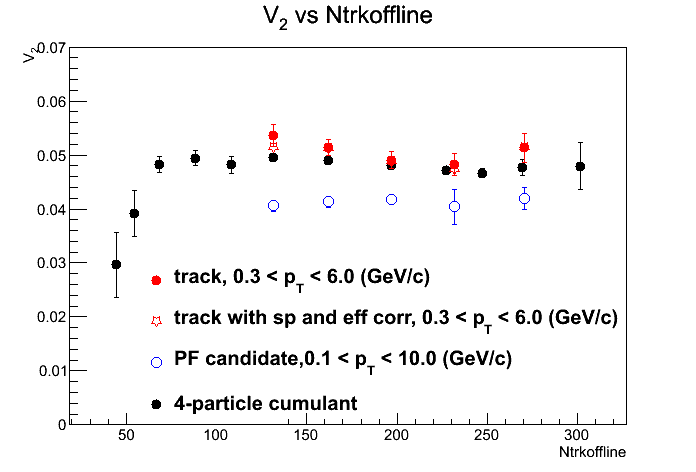
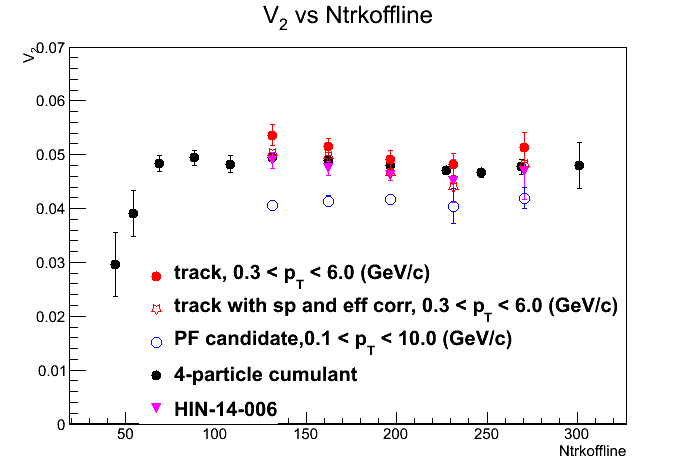
flow report

diff --git a/flow/LYZ/v2/plotV2vsNtrk.C b/flow/LYZ/v2/plotV2vsNtrk.C
@@ -5,8 +5,12 @@ const int nbin24 = 12;
 const double avgtrkbin[nbin24]={44.36,54.33,68.63,88.39,108.2,131.3,162.1,196.6,227.5,247.2,269.2,301.2};
 const double V24[nbin24]={0.02965,0.03913,0.04832,0.04941,0.04822,0.04955,0.049,0.04805,0.04709,0.04665,0.04772,0.04797};
 const double V24err[nbin24]={0.005967,0.004262,0.001496,0.001351,0.001599,0.0003922,0.0003065,0.0002939,0.0004568,0.0008684,0.001471,0.004329};
+const double avgtrkbin006[5]={131.3,162.1,196.6,231.5,270.5};
+const double V2006[5]={0.049,0.0474,0.0461,0.0451,0.0469};
+const double V2006err[5]={0.00147,0.0013,0.0008684,0.004,0.0052};
 TCanvas *c1 = new TCanvas;
 TGraphErrors *grv24=new TGraphErrors(nbin24,avgtrkbin,V24,0,V24err);
+TGraphErrors *grv2006=new TGraphErrors(5,avgtrkbin006,V2006,0,V2006err);
 grv24->SetTitle("V_{2} vs Ntrkoffline");
 grv24->GetXaxis()->SetTitle("Ntrkoffline");
 grv24->GetYaxis()->SetTitle("V_{2}");
@@ -16,6 +20,10 @@ grv24->SetMarkerSize(1.2);
 grv24->SetMarkerColor(1);
 grv24->SetLineColor(1);
 grv24->SetMarkerStyle(20);
+grv2006->SetMarkerColor(6);
+grv2006->SetMarkerSize(1.2);
+grv2006->SetLineColor(6);
+grv2006->SetMarkerStyle(23);
 TGraphErrors *grtr03to6 = plot("tracknormcpt03to6",0,2,20,0);
 TGraphErrors *grtr03to6d3 = plot("tracknormcpt03to6",0,2,30,3);
 //TGraphErrors *grtr03to3 = plot("tracknormcpt03to3",0,2,30,0);
@@ -56,7 +64,9 @@ leg->AddEntry(grtr03to6d3,Form("track with sp and eff corr, %.1f < p_{T} < %.1f 
 leg->AddEntry(grpf01to10,Form("PF candidate,%.1f < p_{T} < %.1f (GeV/c)",0.1,10.0),"P");
 //leg->AddEntry(grpfon,Form("PF only charged,%.1f < p_{T} < %.1f (GeV/c)",0.1,10.0),"P");
 leg->AddEntry(grv24,"4-particle cumulant","P");
+leg->AddEntry(grv2006,"HIN-14-006","P");
 grv24->Draw("AP");
+grv2006->Draw("Psame");
 grtr03to6->Draw("Psame");
 grtr03to6d3->Draw("Psame");
 //grtr03to3->Draw("Psame");
